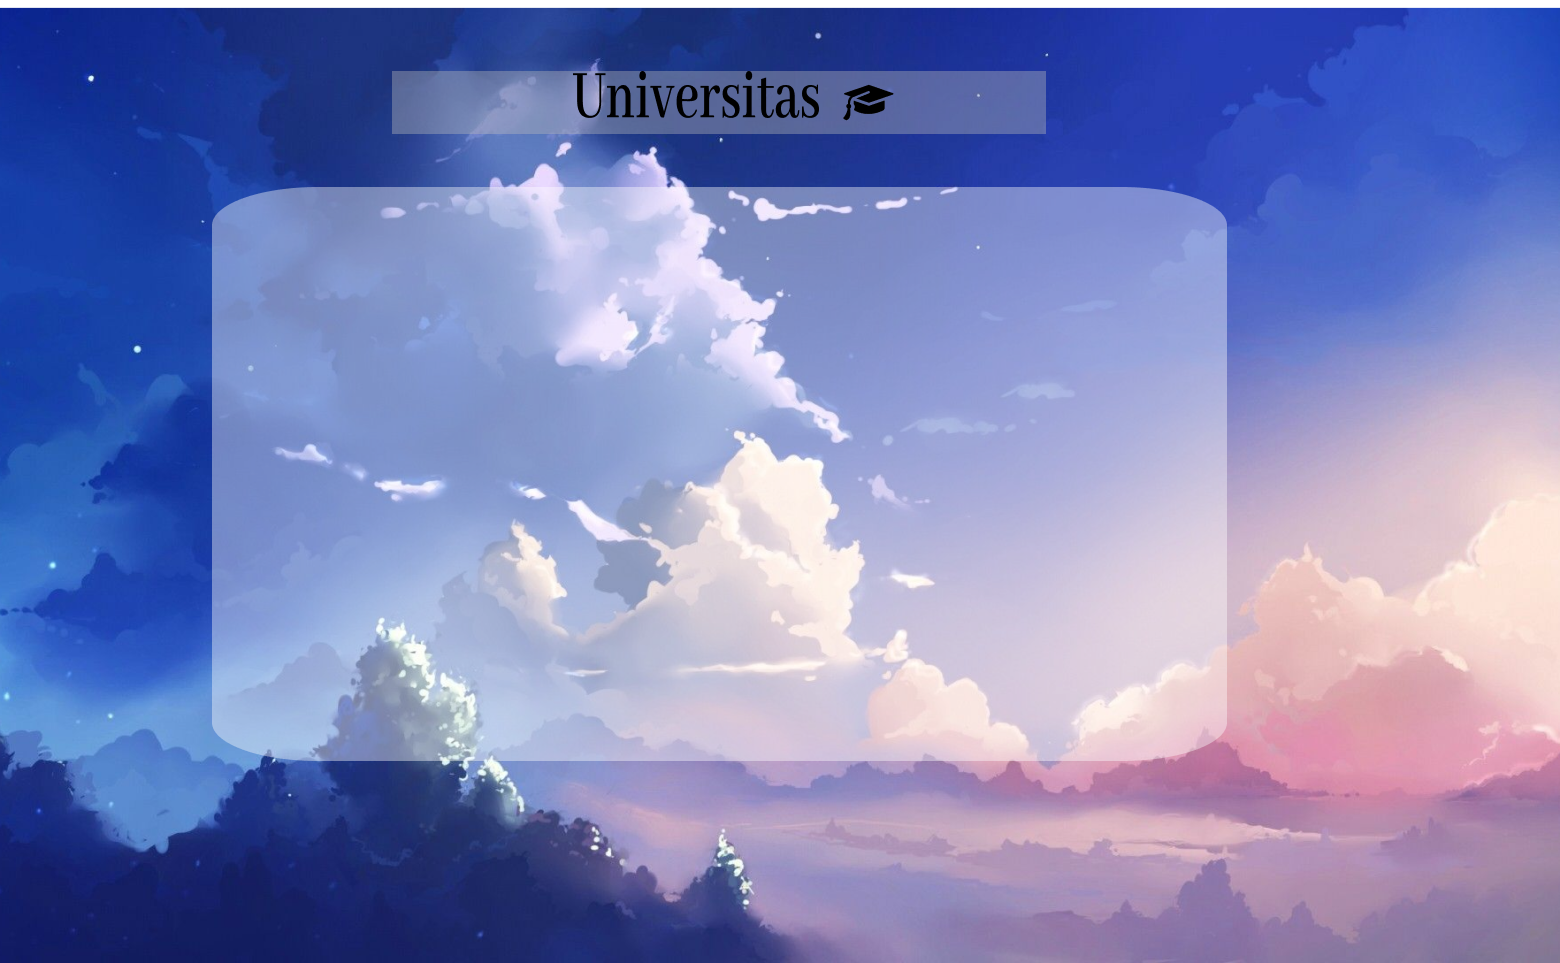
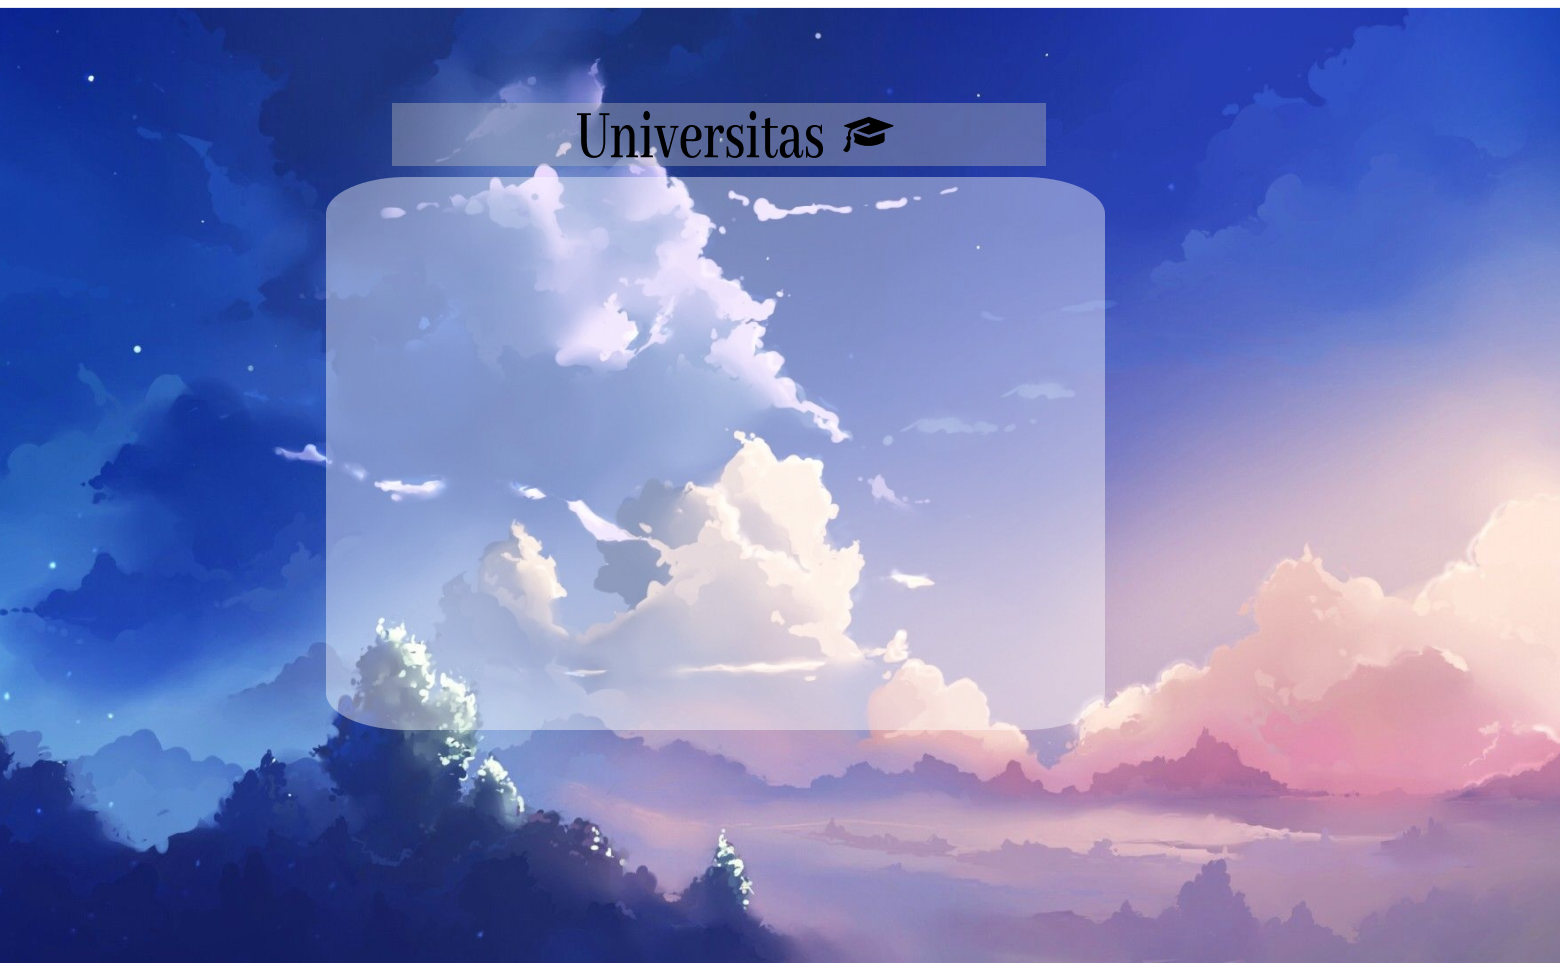
In App Note

Changed region(s): [[0.1231, 0.0623, 0.8, 0.81]]

diff --git a/View/InAppNoteFrame.java b/View/InAppNoteFrame.java
@@ -28,6 +28,11 @@ public class InAppNoteFrame extends javax.swing.JFrame {
 
         jScrollPane1 = new javax.swing.JScrollPane();
         jTextArea1 = new javax.swing.JTextArea();
+        jButton1 = new javax.swing.JButton();
+        jButton2 = new javax.swing.JButton();
+        jButton3 = new javax.swing.JButton();
+        jTextField1 = new javax.swing.JTextField();
+        jLabel2 = new javax.swing.JLabel();
         jLabel1 = new javax.swing.JLabel();
 
         setDefaultCloseOperation(javax.swing.WindowConstants.EXIT_ON_CLOSE);
@@ -41,7 +46,34 @@ public class InAppNoteFrame extends javax.swing.JFrame {
         jScrollPane1.setViewportView(jTextArea1);
 
         getContentPane().add(jScrollPane1);
-        jScrollPane1.setBounds(490, 270, 480, 330);
+        jScrollPane1.setBounds(480, 220, 480, 350);
+
+        jButton1.setFont(new java.awt.Font("Times New Roman", 1, 14)); // NOI18N
+        jButton1.setText("Submit");
+        getContentPane().add(jButton1);
+        jButton1.setBounds(850, 590, 110, 40);
+
+        jButton2.setFont(new java.awt.Font("Times New Roman", 1, 14)); // NOI18N
+        jButton2.setText("Show lists");
+        getContentPane().add(jButton2);
+        jButton2.setBounds(850, 160, 110, 40);
+
+        jButton3.setFont(new java.awt.Font("Times New Roman", 1, 14)); // NOI18N
+        jButton3.setText("Exit");
+        jButton3.addActionListener(new java.awt.event.ActionListener() {
+            public void actionPerformed(java.awt.event.ActionEvent evt) {
+                jButton3ActionPerformed(evt);
+            }
+        });
+        getContentPane().add(jButton3);
+        jButton3.setBounds(480, 590, 110, 40);
+        getContentPane().add(jTextField1);
+        jTextField1.setBounds(580, 160, 200, 40);
+
+        jLabel2.setFont(new java.awt.Font("Times New Roman", 1, 18)); // NOI18N
+        jLabel2.setText("Notes Title:");
+        getContentPane().add(jLabel2);
+        jLabel2.setBounds(480, 170, 100, 30);
 
         jLabel1.setIcon(new javax.swing.ImageIcon(getClass().getResource("/View/Group 57.png"))); // NOI18N
         jLabel1.setText("jLabel1");
@@ -59,6 +91,10 @@ public class InAppNoteFrame extends javax.swing.JFrame {
     private void jLabel1KeyPressed(java.awt.event.KeyEvent evt) {//GEN-FIRST:event_jLabel1KeyPressed
         // TODO add your handling code here:
     }//GEN-LAST:event_jLabel1KeyPressed
+
+    private void jButton3ActionPerformed(java.awt.event.ActionEvent evt) {//GEN-FIRST:event_jButton3ActionPerformed
+        // TODO add your handling code here:
+    }//GEN-LAST:event_jButton3ActionPerformed
 
     /**
      * @param args the command line arguments
@@ -96,8 +132,13 @@ public class InAppNoteFrame extends javax.swing.JFrame {
     }
 
     // Variables declaration - do not modify//GEN-BEGIN:variables
+    private javax.swing.JButton jButton1;
+    private javax.swing.JButton jButton2;
+    private javax.swing.JButton jButton3;
     private javax.swing.JLabel jLabel1;
+    private javax.swing.JLabel jLabel2;
     private javax.swing.JScrollPane jScrollPane1;
     private javax.swing.JTextArea jTextArea1;
+    private javax.swing.JTextField jTextField1;
     // End of variables declaration//GEN-END:variables
 }
